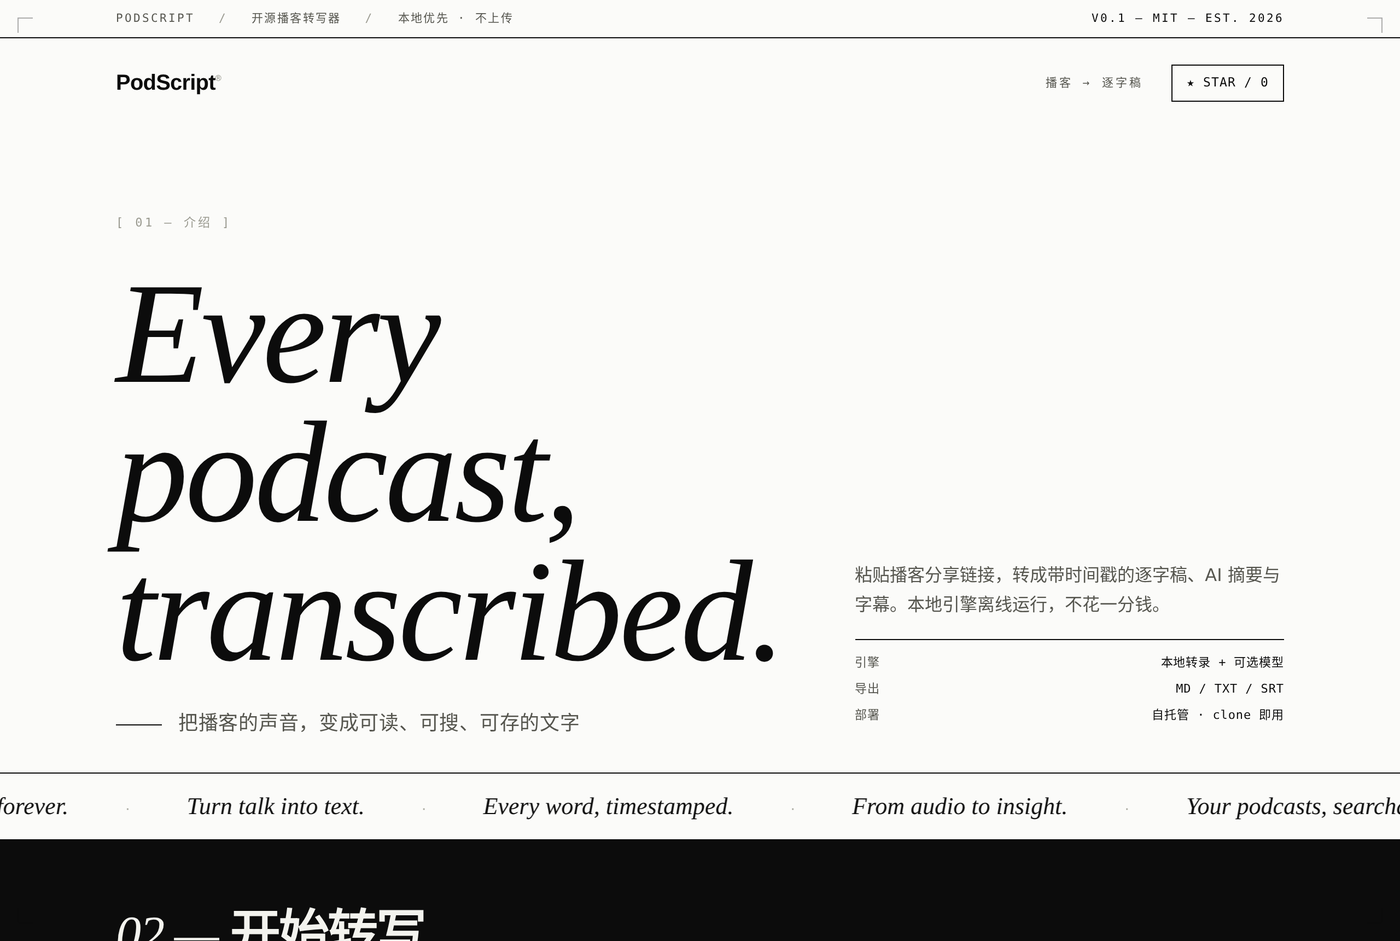
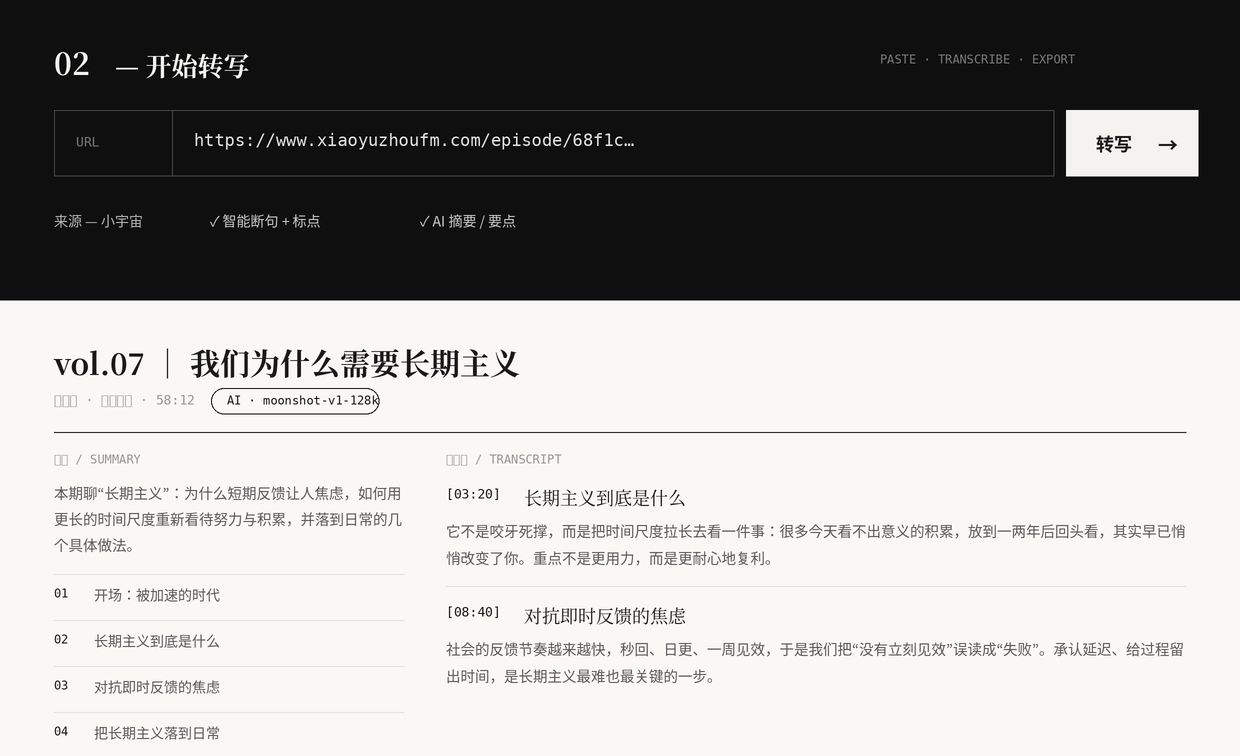
feat: 说话人分离（访谈）+ start.sh 兼容 uv/无pip + README 文档

diff --git a/web/index.html b/web/index.html
@@ -208,6 +208,7 @@
   .sec-p{font-size:15px;line-height:1.9;color:var(--ink2);margin:0 0 13px}
   .sec-p:last-child{margin-bottom:0}
   .llm-err{border:1px solid #b3261e;color:#b3261e;padding:14px 16px;margin-bottom:20px;font-size:13.5px;line-height:1.65}
+  .spk{color:var(--ink);font-weight:600}
   .genby{display:inline-block;margin-left:8px;padding:2px 9px;border:1px solid var(--ink);border-radius:999px;font-family:var(--mono);font-size:10.5px;letter-spacing:.04em;color:var(--ink);vertical-align:middle}
   .genby.local{border-color:var(--rule2);color:var(--ink2)}
 </style>
@@ -266,6 +267,7 @@
     <span class="detect">来源 — <b id="src">自动识别</b></span>
     <label class="chk"><input type="checkbox" id="op-p" checked>智能断句 + 标点</label>
     <label class="chk"><input type="checkbox" id="op-s" checked>AI 摘要 / 要点</label>
+    <label class="chk"><input type="checkbox" id="op-d">区分说话人 · 访谈</label>
   </div>
   <div class="vrow">
     <span class="vlbl">落点 / OUTPUT</span>
@@ -482,6 +484,7 @@
       body:JSON.stringify({url:v,engine:"auto",
         punctuate:document.getElementById("op-p").checked,
         summary:document.getElementById("op-s").checked,
+        diarize:document.getElementById("op-d").checked,
         llm:(eng==="api"),
         vault:vault||null,
         api_key:(eng==="api"?apiKey:"")||null,
@@ -524,13 +527,14 @@
     if(j.sections&&j.sections.length){
       scr.innerHTML=j.sections.map(function(s,i){
         var h='<div class="sec-h"><span class="sec-ts">['+esc(s.ts)+']</span>'+(s.title?'<span class="sec-t">'+esc(s.title)+'</span>':'')+'</div>';
-        var ps=(s.paras&&s.paras.length?s.paras:[s.text]).map(function(p){return '<p class="sec-p">'+esc(p)+'</p>';}).join("");
+        var ps=(s.paras&&s.paras.length?s.paras:[s.text]).map(function(p){var e=esc(p).replace(/^(说话人\d+：)/,'<b class="spk">$1</b>');return '<p class="sec-p">'+e+'</p>';}).join("");
         return '<div class="sec" id="psec-'+i+'">'+h+ps+'</div>';}).join("");
     }else{
       scr.innerHTML=(j.lines||[]).map(function(l){
         return '<div class="line"><span class="ts">'+esc(l.ts)+'</span><span class="tx">'+esc(l.text)+'</span></div>';}).join("");
     }
     if(j.llm_error){scr.innerHTML='<div class="llm-err">⚠ 没接上大模型，已退回「原文 + 按时长分段」。原因：<br>'+esc(j.llm_error)+'</div>'+scr.innerHTML;}
+    if(j.diar_error){scr.innerHTML='<div class="llm-err">⚠ 说话人分离没成功，已按普通分段显示。原因：<br>'+esc(j.diar_error)+'</div>'+scr.innerHTML;}
     var sv=document.getElementById("saved");
     if(j.save_error){sv.innerHTML="⚠ 落点写入失败："+esc(j.save_error)+"（仍可用下方按钮导出）";}
     else if(j.saved_path){sv.innerHTML="已保存到 <b>"+esc(j.saved_path)+"</b>";}

diff --git a/backend/diar.py b/backend/diar.py
@@ -1,0 +1,87 @@
+"""说话人分离（可选 · pyannote.audio）。
+
+默认不启用：只有前端勾选「区分说话人」且配置了 HuggingFace token 时才会用到，
+因此 torch / pyannote 都是**懒加载**——不开启分离的用户完全不引入这些重依赖。
+
+启用前提（一次性）：
+  1. pip install -r requirements-diarize.txt   # 装 pyannote.audio（含 torch）
+  2. 到 hf.co/settings/tokens 建一个 token
+  3. 在 https://huggingface.co/pyannote/speaker-diarization-3.1 接受模型许可
+  4. 设环境变量： export HF_TOKEN=hf_xxx
+"""
+from __future__ import annotations
+
+
+def diarize(audio_path, token: str, progress=None) -> list[tuple[float, float, str]]:
+    """对音频做说话人分离，返回 [(start, end, 'SPEAKER_xx'), ...]（按开始时间排序）。
+
+    失败直接抛异常，由调用方捕获并降级 + 提示原因。
+    """
+    if not token:
+        raise RuntimeError("缺少 HuggingFace token（设 HF_TOKEN 环境变量；并需接受 pyannote 模型许可）")
+    from pyannote.audio import Pipeline   # 懒加载（重依赖，仅启用分离时引入）
+    import torch
+
+    # pyannote.audio 4.x 用 token=，3.x 用 use_auth_token=；两者都试一下
+    try:
+        pipe = Pipeline.from_pretrained("pyannote/speaker-diarization-3.1", token=token)
+    except TypeError:
+        pipe = Pipeline.from_pretrained("pyannote/speaker-diarization-3.1", use_auth_token=token)
+    if pipe is None:
+        raise RuntimeError("pyannote 模型加载失败：请确认 token 有效、且已在网页接受 "
+                           "pyannote/speaker-diarization-3.1 的模型许可")
+    # 设备：优先 CUDA，其次 Apple MPS，最后 CPU
+    try:
+        if torch.cuda.is_available():
+            pipe.to(torch.device("cuda"))
+        elif getattr(torch.backends, "mps", None) and torch.backends.mps.is_available():
+            pipe.to(torch.device("mps"))
+    except Exception:
+        pass  # 设备切换失败就用默认 CPU
+
+    result = pipe(str(audio_path))
+    # pyannote 4.x 把结果包成 DiarizeOutput（Annotation 在 .speaker_diarization 等字段里）；
+    # 3.x 直接返回 Annotation。两种都兼容。
+    annotation = result
+    if not hasattr(annotation, "itertracks"):
+        for attr in ("speaker_diarization", "diarization", "annotation"):
+            cand = getattr(result, attr, None)
+            if cand is not None and hasattr(cand, "itertracks"):
+                annotation = cand
+                break
+    if not hasattr(annotation, "itertracks"):
+        raise RuntimeError(f"无法解析分离输出（类型 {type(result).__name__}）；"
+                           f"pyannote 版本接口可能又变了，把这条发给作者")
+    turns = [(float(seg.start), float(seg.end), str(spk))
+             for seg, _, spk in annotation.itertracks(yield_label=True)]
+    turns.sort(key=lambda x: x[0])
+    return turns
+
+
+def assign(segments: list[tuple[float, str]],
+           turns: list[tuple[float, float, str]]) -> list[str] | None:
+    """给每个转录 segment 配一个说话人：取与该段时间区间重叠最多的说话人。
+
+    返回与 segments 等长的标签列表，标签为「说话人1 / 说话人2 …」（按出现先后编号）；
+    没有分离结果则返回 None。
+    """
+    if not turns:
+        return None
+    label_map: dict[str, str] = {}
+
+    def disp(spk: str) -> str:
+        if spk not in label_map:
+            label_map[spk] = f"说话人{len(label_map) + 1}"
+        return label_map[spk]
+
+    n = len(segments)
+    out: list[str] = []
+    for i, (start, _text) in enumerate(segments):
+        end = segments[i + 1][0] if i + 1 < n else start + 4.0
+        best, best_ov = None, 0.0
+        for ts, te, spk in turns:
+            ov = min(end, te) - max(start, ts)
+            if ov > best_ov:
+                best_ov, best = ov, spk
+        out.append(disp(best) if best is not None else "")
+    return out

diff --git a/backend/pipeline.py b/backend/pipeline.py
@@ -231,13 +231,29 @@ def _split_paragraphs(text: str, target: int = 160) -> list[str]:
     return paras or ([text] if text else [])
 
 
-def _build_sections(clean_lines: list[str], boundaries: list[dict]) -> list[dict]:
-    """把每行归入最近一个起点<=该行时间的段；合并为段落文本。"""
+def _speaker_paras(chunk: list) -> list:
+    """按说话人轮次合并：连续同一说话人的句子并成一段，前缀「说话人X：」。"""
+    paras, cur_spk, buf = [], None, ""
+    for r in chunk:
+        spk = r[3] if len(r) > 3 else ""
+        if buf and spk != cur_spk:
+            paras.append((f"{cur_spk}：" if cur_spk else "") + buf.strip())
+            buf = ""
+        cur_spk = spk
+        buf += r[2]
+    if buf.strip():
+        paras.append((f"{cur_spk}：" if cur_spk else "") + buf.strip())
+    return paras or ([chunk[0][2]] if chunk else [])
+
+
+def _build_sections(clean_lines: list[str], boundaries: list[dict], speakers=None) -> list[dict]:
+    """把每行归入最近一个起点<=该行时间的段；合并为段落文本（有说话人则按轮次分段）。"""
     rows = []
-    for ln in clean_lines:
+    for i, ln in enumerate(clean_lines):
         m = TS_LINE.match(ln)
         if m:
-            rows.append((_ts_to_sec(m.group(1)), m.group(1), m.group(2)))
+            spk = speakers[i] if (speakers and i < len(speakers)) else ""
+            rows.append((_ts_to_sec(m.group(1)), m.group(1), m.group(2), spk))
     if not boundaries:
         boundaries = [{"title": "", "start": 0}]
     boundaries = sorted(boundaries, key=lambda x: x["start"])
@@ -250,12 +266,13 @@ def _build_sections(clean_lines: list[str], boundaries: list[dict]) -> list[dict
         if not chunk:
             continue
         text = "".join(r[2] for r in chunk).strip()
+        paras = _speaker_paras(chunk) if speakers else _split_paragraphs(text)
         out.append({
             "title": b.get("title", ""),
             "ts": chunk[0][1].strip("[]"),
             "text": text,
-            "paras": _split_paragraphs(text),
-            "lines": [{"ts": r[1].strip("[]"), "text": r[2]} for r in chunk],
+            "paras": paras,
+            "lines": [{"ts": r[1].strip("[]"), "text": r[2], "speaker": r[3]} for r in chunk],
         })
     return [s for s in out if s["text"]]
 
@@ -264,7 +281,7 @@ def _build_sections(clean_lines: list[str], boundaries: list[dict]) -> list[dict
 def process(segments: list[tuple[float, str]], *, punctuate: bool = True,
             summary: bool = True, llm_key: str | None = None,
             llm_base: str | None = None, llm_model: str | None = None,
-            allow_llm: bool = True) -> dict:
+            allow_llm: bool = True, speakers=None) -> dict:
     """segments → {raw_lines, clean_lines, summary, points, cleaned}。"""
     raw_lines = [f"{fmt_ts(t)} {text}" for t, text in segments]
     cfg = config.llm_config(llm_key, llm_base, llm_model) if (allow_llm and (punctuate or summary)) else None
@@ -288,7 +305,7 @@ def process(segments: list[tuple[float, str]], *, punctuate: bool = True,
     bounds = _segment_by_topic(clean_lines, cfg) if (cfg and summary) else []
     if not bounds:
         bounds = _time_block_sections(clean_lines, 600)
-    sections = _build_sections(clean_lines, bounds)
+    sections = _build_sections(clean_lines, bounds, speakers)
     seg_points = [s["title"] for s in sections if s.get("title")]
 
     return {
@@ -300,6 +317,7 @@ def process(segments: list[tuple[float, str]], *, punctuate: bool = True,
         "llm_used": bool(cfg),
         "llm_model": (cfg.get("model") if cfg else None),
         "llm_error": llm_error,
+        "has_speakers": bool(speakers),
     }
 
 

diff --git a/backend/core.py b/backend/core.py
@@ -20,7 +20,7 @@ def _safe(name: str, maxlen: int = 40) -> str:
 
 
 def run(url: str, *, engine: str = "auto", punctuate: bool = True, summary: bool = True,
-        allow_llm: bool = True,
+        allow_llm: bool = True, diarize: bool = False, hf_token: str | None = None,
         whisper_model: str = "small", llm_key: str | None = None,
         llm_base: str | None = None, llm_model: str | None = None,
         workdir: Path | None = None, keep_audio: bool = False,
@@ -41,12 +41,16 @@ def run(url: str, *, engine: str = "auto", punctuate: bool = True, summary: bool
         try:
             d = json.loads(f.read_text(encoding="utf-8"))
             if d.get("meta", {}).get("url") == url and d.get("segments"):
+                cached_speakers = d.get("speakers")
+                if diarize and not cached_speakers:
+                    continue
                 emit("复用已转录稿")
                 meta = d["meta"]
                 segments = [(s["start"], s["text"]) for s in d["segments"]]
                 emit("清洗与摘要")
                 result = pipeline.process(segments, punctuate=punctuate, summary=summary,
-                                          llm_key=llm_key, llm_base=llm_base, llm_model=llm_model, allow_llm=allow_llm)
+                                          llm_key=llm_key, llm_base=llm_base, llm_model=llm_model,
+                                          allow_llm=allow_llm, speakers=(cached_speakers if diarize else None))
                 return {"meta": meta, "result": result, "segments": segments, "raw_path": f}
         except Exception:
             continue
@@ -63,18 +67,35 @@ def run(url: str, *, engine: str = "auto", punctuate: bool = True, summary: bool
         if not segments:
             raise RuntimeError("转录结果为空（未识别到语音）")
 
-        # 原始稿留档（去清洗前）
+        # 2.5 可选：说话人分离（需音频，必须在删音频前做）
+        seg_speakers, diar_error = None, None
+        if diarize:
+            emit("说话人分离")
+            try:
+                from . import diar
+                turns = diar.diarize(audio, hf_token)
+                seg_speakers = diar.assign(segments, turns)
+            except Exception as e:
+                diar_error = f"说话人分离失败：{e}"
+
+        # 原始稿留档（去清洗前；带说话人便于复用）
         stem = _safe(f"{meta.get('show','')}-{meta.get('title','')}")
         raw_path = raw_dir / f"{stem}.raw.json"
-        raw_path.write_text(json.dumps({
+        _raw = {
             "meta": {k: (str(v) if isinstance(v, Path) else v) for k, v in meta.items()},
             "segments": [{"start": round(t, 2), "text": x} for t, x in segments],
-        }, ensure_ascii=False, indent=2), encoding="utf-8")
+        }
+        if seg_speakers:
+            _raw["speakers"] = seg_speakers
+        raw_path.write_text(json.dumps(_raw, ensure_ascii=False, indent=2), encoding="utf-8")
 
         # 3. 清洗 + 提炼
         emit("清洗与摘要")
         result = pipeline.process(segments, punctuate=punctuate, summary=summary,
-                                  llm_key=llm_key, llm_base=llm_base, llm_model=llm_model, allow_llm=allow_llm)
+                                  llm_key=llm_key, llm_base=llm_base, llm_model=llm_model,
+                                  allow_llm=allow_llm, speakers=seg_speakers)
+        if diar_error:
+            result["diar_error"] = diar_error
         return {"meta": meta, "result": result, "segments": segments, "raw_path": raw_path}
     finally:
         # 4. 文本优先：删音频（除非显式保留）

diff --git a/backend/config.py b/backend/config.py
@@ -81,3 +81,10 @@ def llm_config(explicit_key: str | None = None,
             "model": os.environ.get("DEEPSEEK_MODEL", "deepseek-chat"),
         }
     return None
+
+
+def hf_token() -> str | None:
+    """HuggingFace token（说话人分离用）：按 HF_TOKEN / HUGGINGFACE_TOKEN / PYANNOTE_TOKEN 取。"""
+    import os
+    return (os.environ.get("HF_TOKEN") or os.environ.get("HUGGINGFACE_TOKEN")
+            or os.environ.get("PYANNOTE_TOKEN") or None)

diff --git a/backend/app.py b/backend/app.py
@@ -27,6 +27,7 @@ class TranscribeReq(BaseModel):
     engine: str = "auto"           # 转录恒本地（faster-whisper）；不再有云端 ASR
     punctuate: bool = True
     summary: bool = True
+    diarize: bool = False           # 说话人分离（访谈用；需 pyannote + HF token）
     llm: bool = True               # 前端模式：接大模型=True，本地=False（False 时连环境变量里的 key 也不使用）
     api_key: str | None = None     # 「自带 KEY」：仅用于清洗+摘要 LLM（OpenAI 兼容），不碰转录
     api_base: str | None = None    # OpenAI 兼容 base_url（DeepSeek/Kimi/GLM）
@@ -55,6 +56,7 @@ def transcribe(req: TranscribeReq):
             req.url,
             engine="local",                      # 转录恒本地 faster-whisper
             punctuate=req.punctuate, summary=req.summary, allow_llm=req.llm,
+            diarize=req.diarize, hf_token=config.hf_token(),
             whisper_model=req.whisper_model,
             llm_key=req.api_key, llm_base=req.api_base, llm_model=req.api_model,
         )
@@ -97,6 +99,8 @@ def transcribe(req: TranscribeReq):
         "llm_used": result.get("llm_used", False),
         "llm_model": result.get("llm_model"),
         "llm_error": result.get("llm_error"),
+        "has_speakers": result.get("has_speakers", False),
+        "diar_error": result.get("diar_error"),
         "lines": lines,
         "saved_path": saved_path,
         "save_error": save_error,

diff --git a/README.md b/README.md
@@ -3,6 +3,8 @@
 把**小宇宙 / 苹果播客 / B 站**的一条链接，变成带时间戳的逐字稿 + AI 摘要 + 字幕，
 落成 [Obsidian](https://obsidian.md) 友好的 Markdown。**本地优先、离线免费、不上传**。
 
+![PodScript — Every podcast, transcribed](docs/screenshot.png)
+
 > **▶ 最简单的用法：网页版（推荐）**
 > 装好 ffmpeg 后，在项目目录里跑一条 **`bash start.sh`** —— 它会自动建环境、装依赖、起服务并打开浏览器（**http://127.0.0.1:8000**）。
 > 然后：粘链接 → 点「转写」→ 看摘要 / 大纲 / 逐字稿 → 一键导出。界面化操作，新手首选，比命令行直观得多。
@@ -19,6 +21,7 @@
 - **按话题分段 + 可点大纲**：接大模型时按话题把全文切成若干段、每段配小标题，并在段内自动分小段；网页左侧生成**可点击跳转、滚动悬浮**的大纲。纯本地则按每 10 分钟分段。
 - **同链接免重听写**：同一条链接再转会复用已缓存的逐字稿，跳过下载与转录，秒级重出清洗/分段（方便迭代）。
 - **来源透明**：结果区标明本次由「本地 Whisper」还是「AI · 模型名」产出；接不通模型时直接显示原因，不静默降级。
+- **区分说话人 · 访谈（可选）**：勾选后用 [pyannote](https://github.com/pyannote/pyannote-audio) 做声纹分离，访谈/多人播客按「说话人1 / 说话人2 …」分轮次显示。需额外装依赖 + 配 HF token，见下「说话人分离」。
 - 转录后**自动删音频**（文本优先）；原始带时间戳稿留档在 `_raw_podcast/`，重洗不用重下。
 
 ---
@@ -125,6 +128,32 @@ export DEEPSEEK_API_KEY=sk-...
 
 ---
 
+## 说话人分离（访谈类 · 可选）
+
+访谈、对谈类播客有多个说话人时，可让逐字稿按「说话人1 / 说话人2 …」分轮次显示。
+基础转写**用不到**这些，重依赖（torch / pyannote）都是**懒加载**——不开启就不引入。
+
+一次性配置：
+
+```bash
+# 1) 装可选依赖（含 torch，体积较大）
+pip install -r requirements-diarize.txt
+
+# 2) 到 https://hf.co/settings/tokens 建一个 token（read 权限即可）
+# 3) 在 https://huggingface.co/pyannote/speaker-diarization-3.1 页面点接受模型许可
+#    （会连带要求接受 pyannote/segmentation-3.0，一并接受）
+# 4) 设环境变量
+export HF_TOKEN=hf_xxxxxxxx
+```
+
+然后在网页转写时勾选 **「区分说话人 · 访谈」** 即可。首次会下载 pyannote 模型（约几十 MB）；
+分离计算在本地跑，有 GPU（CUDA / Apple MPS）会自动用，没有则用 CPU（稍慢）。
+分离没成功会**自动退回普通分段并显示原因**，不影响逐字稿产出。
+
+> 在 Clash 等 SOCKS 代理下下模型，`requirements-diarize.txt` 已带 `httpx[socks]`；不走代理可忽略。
+
+---
+
 ## 输出格式
 
 ```markdown
@@ -158,6 +187,7 @@ export DEEPSEEK_API_KEY=sk-...
 | `PODSCRIPT_CONFIG` | 落点配置文件路径（默认 `~/.podscript/config.json`） |
 | `OPENAI_API_KEY` / `OPENAI_BASE_URL` / `OPENAI_MODEL` | 清洗/摘要 LLM（OpenAI 兼容端点） |
 | `DEEPSEEK_API_KEY` / `DEEPSEEK_MODEL` | 清洗/摘要 LLM（备选） |
+| `HF_TOKEN` / `HUGGINGFACE_TOKEN` | 说话人分离用的 HuggingFace token（见「说话人分离」） |
 
 ---
 